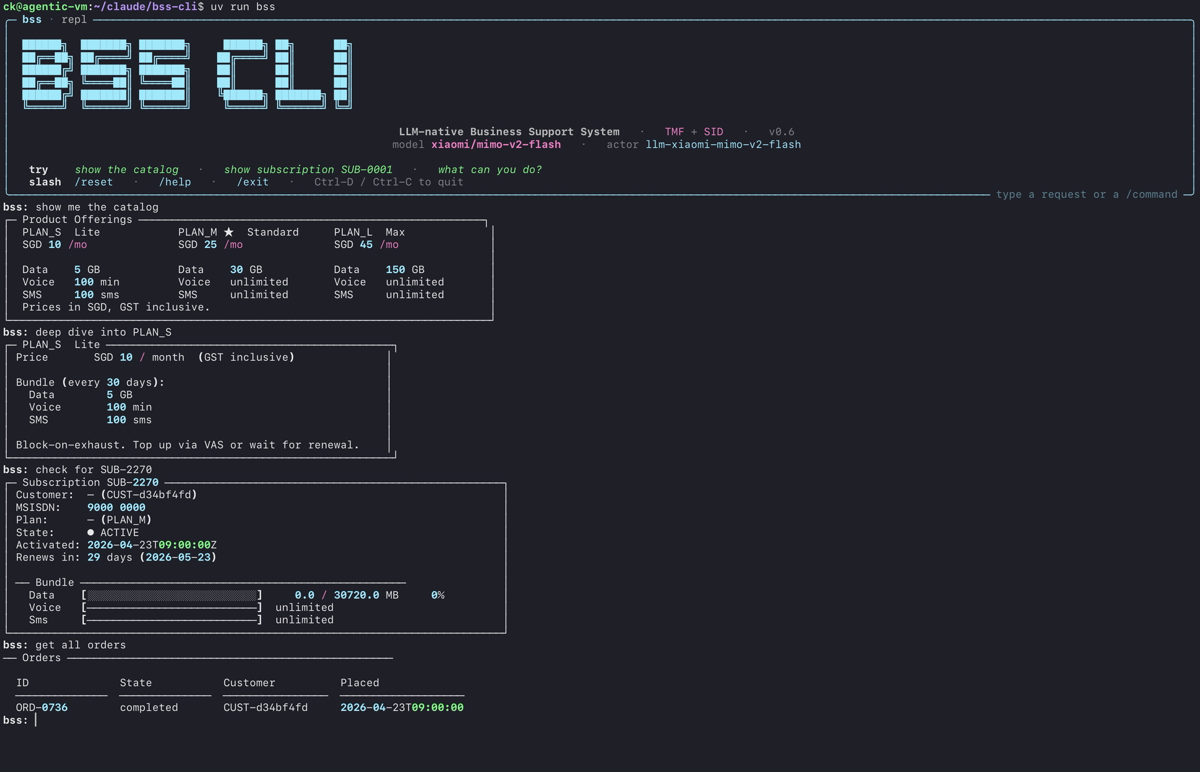
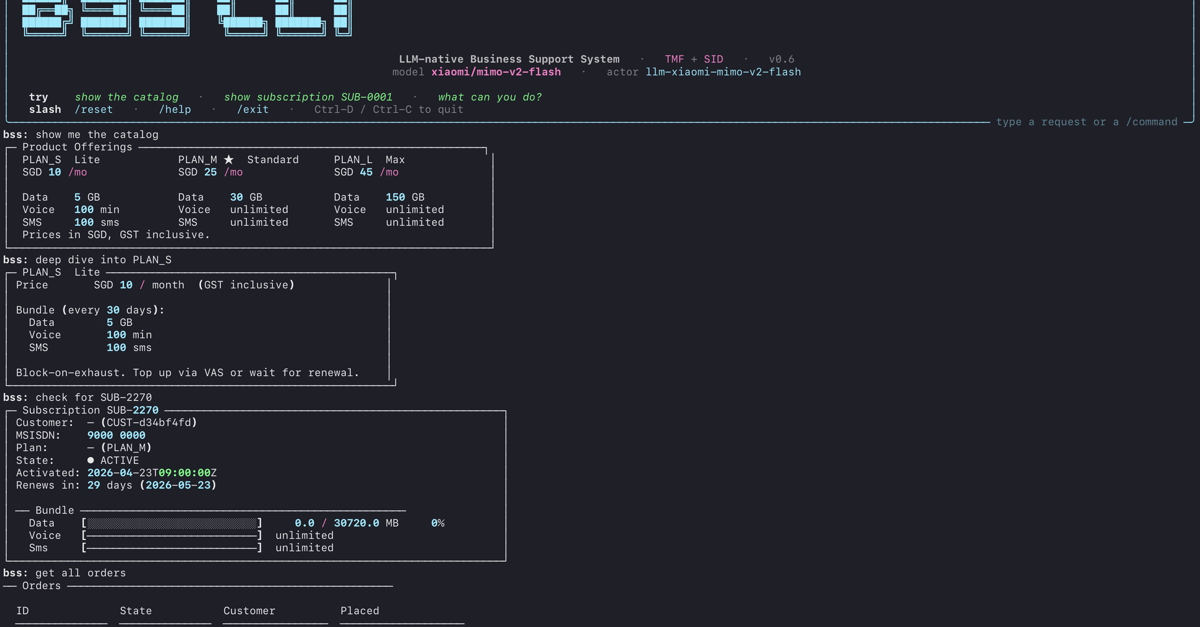
Resize og-image to 1200x627 (LinkedIn 1.91:1 standard)
LinkedIn silently drops summary_large_image cards whose images fall
outside its 1.91:1 aspect tolerance. Center-cropped from the source
REPL screenshot to fit the canonical dimensions.

diff --git a/index.html b/index.html
@@ -16,7 +16,7 @@
   <meta property="og:image:secure_url" content="https://chiamck.site/og-image.png">
   <meta property="og:image:type" content="image/png">
   <meta property="og:image:width" content="1200">
-  <meta property="og:image:height" content="772">
+  <meta property="og:image:height" content="627">
   <meta property="og:image:alt" content="BSS-CLI terminal REPL screenshot">
 
   <!-- Twitter Card (LinkedIn falls back to these if og:* missing) -->
